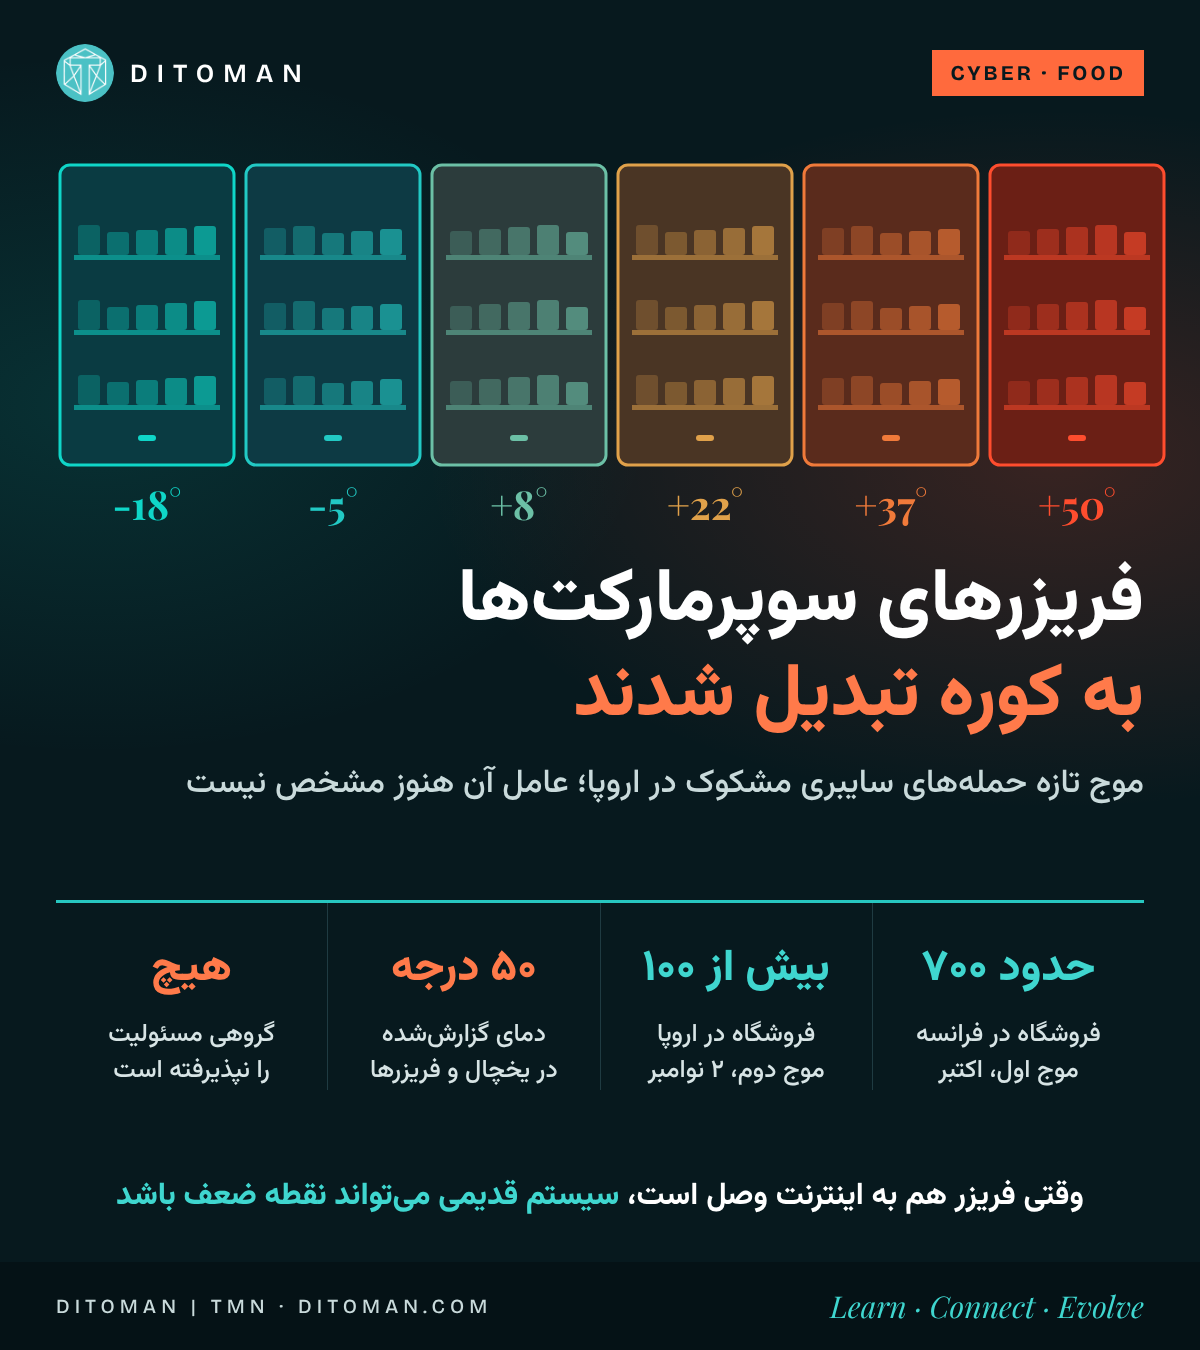
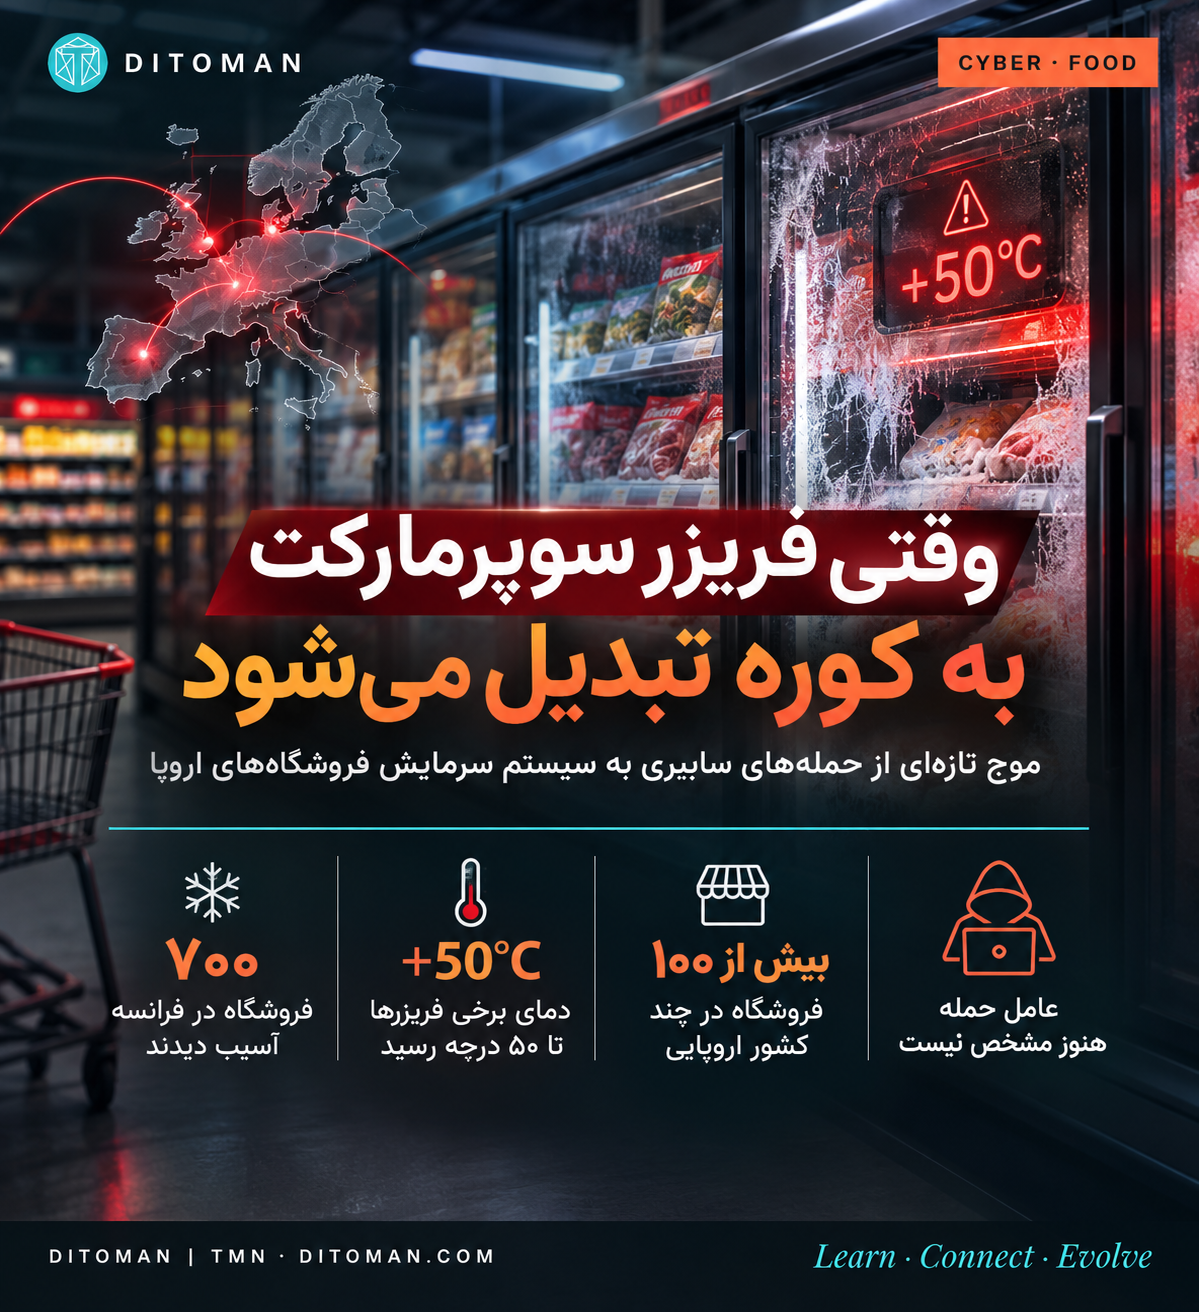
Telegram: European supermarket freezer attacks
Claude-Session: https://claude.ai/code/session_012uZ8Kjimp9Xw3VG1ywEioi

diff --git a/telegram/2026-11-02-07-freezer-cyberattack.md b/telegram/2026-11-02-07-freezer-cyberattack.md
@@ -1,0 +1,17 @@
+image: social/freezer-cyberattack/post.png
+🧊 شب میبندند، صبح فریزرها ۵۰ درجهاند
+
+این صحنه دارد در سوپرمارکتهای اروپا تکرار میشود. یک ماه بعد از فرانسه، موج تازهای از حملههای سایبری مشکوک به سیستمهای سرمایش رسیده و غذا دور ریخته شده است.
+
+🔹 اکتبر، فرانسه: حدود ۷۰۰ فروشگاه
+🔹 ۲ نوامبر: بیش از ۱۰۰ فروشگاه در بلژیک، ایرلند، سوئد، لوکزامبورگ و استونی
+
+❓ کار کیست؟
+هنوز معلوم نیست و هیچ گروهی مسئولیت نپذیرفته است. کمیسر اروپایی آن را «تلاشی عمدی برای مختل کردن زنجیره تأمین غذا» میخواند. یک پژوهشگر امنیت هم میگوید از نگاه مدافع، «یک نوجوان و یک سازمان اطلاعاتی تقریباً یکشکل دیده میشوند».
+
+🔍 نگاه دیتومان
+اروپا برای خیلی از ما نماد ثبات بوده و خیلی از ایرانیها با همین امید مهاجرت کردهاند. این خبر به معنی فروپاشی نیست، ولی پرسش تازهای میسازد: چه کسی از این حملهها سود میبرد، و ثبات در دنیایی که حتی یخچال هم به اینترنت وصل است چه معنایی دارد؟
+
+با هم دنبالش میکنیم.
+
+منبع: AP و Reuters
